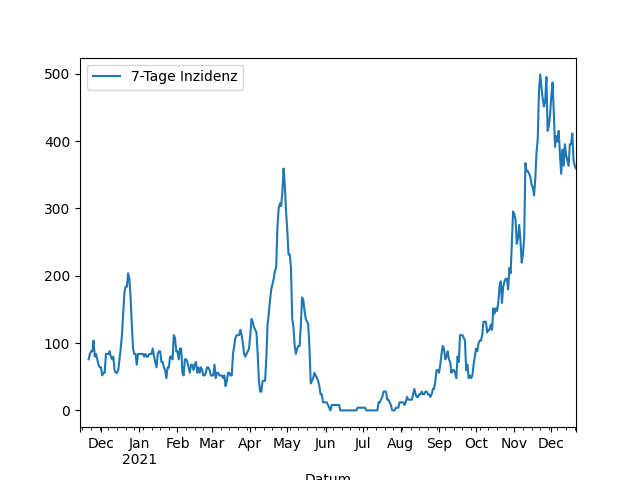
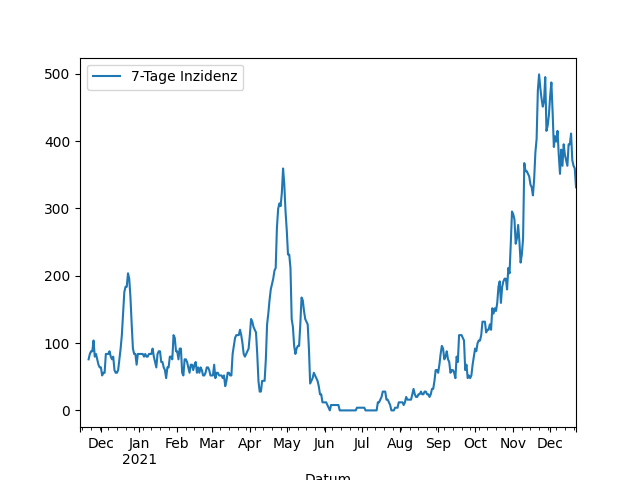
Update images

diff --git a/_includes/aktuelle_inzidenz.md b/_includes/aktuelle_inzidenz.md
@@ -1,1 +1,1 @@
-359,3
+331,3
